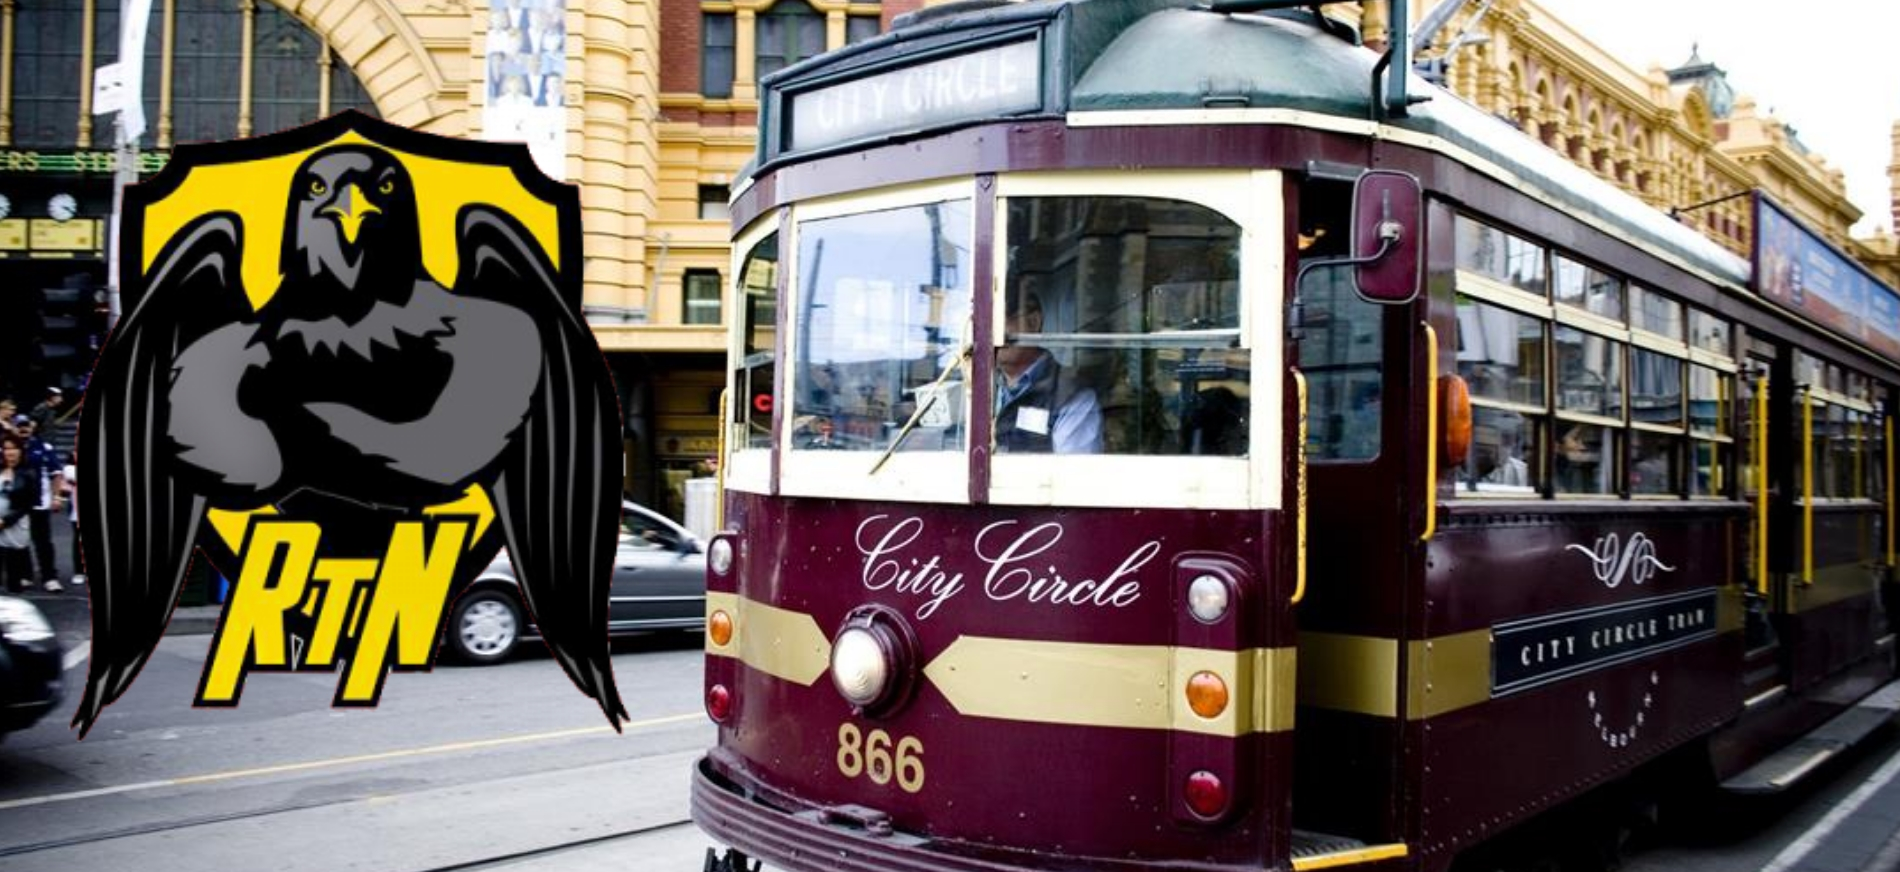
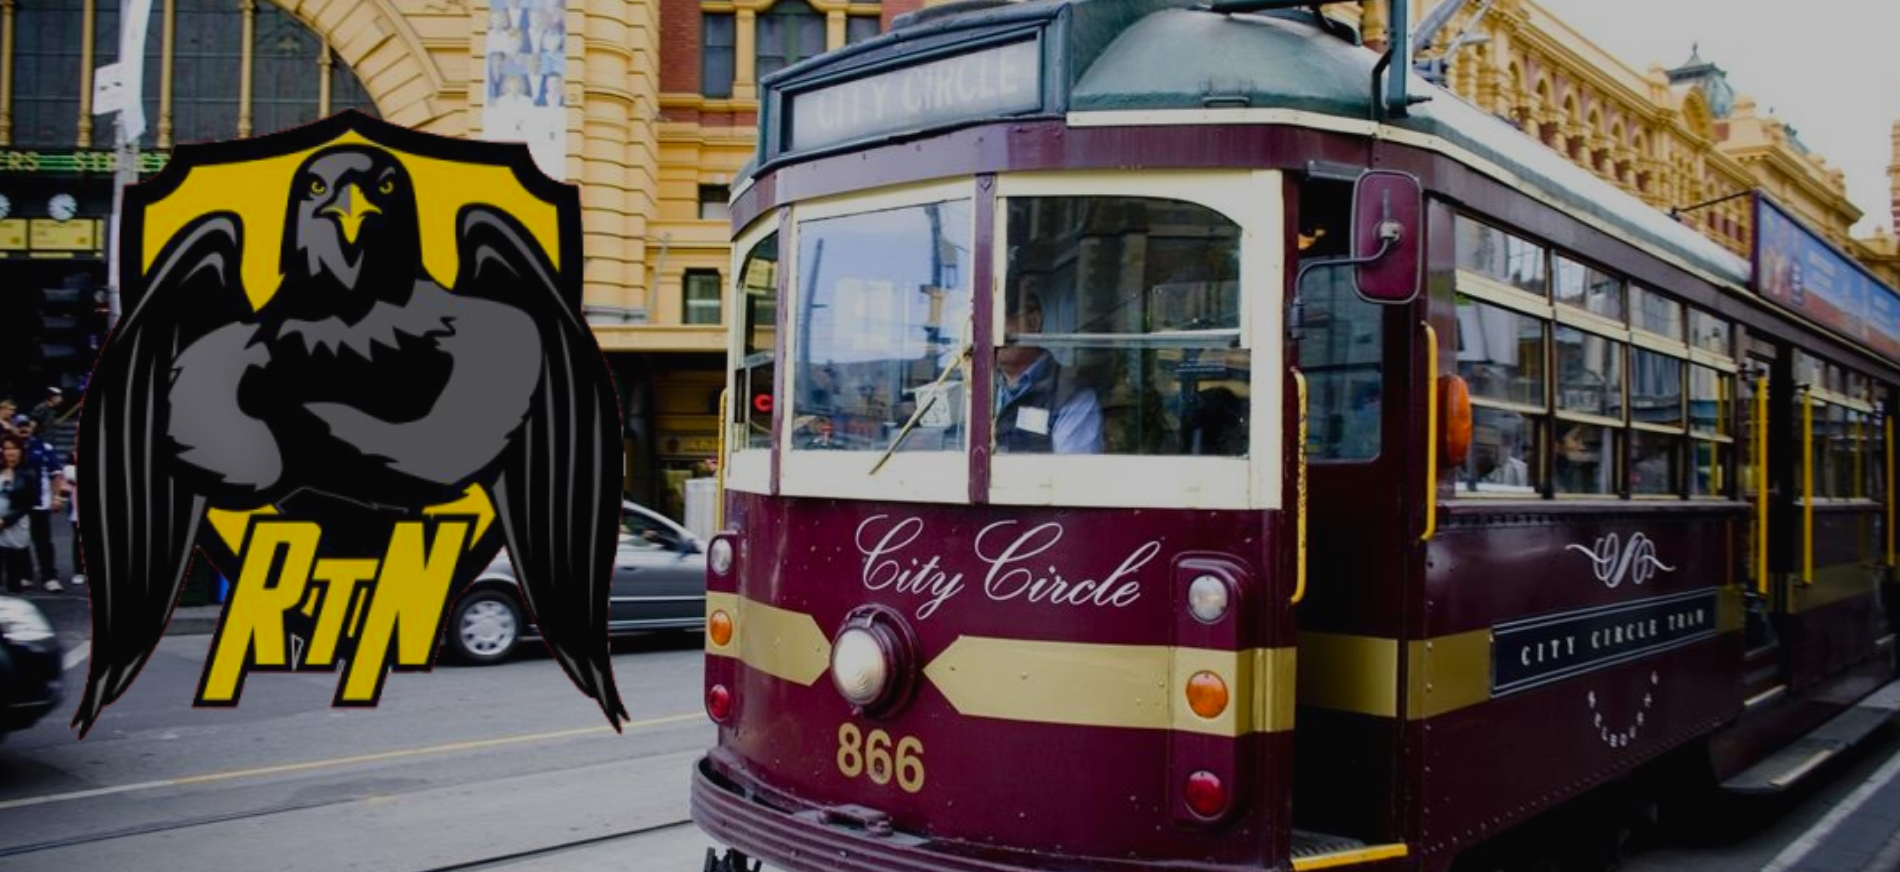
darkened images

diff --git a/index.html b/index.html
@@ -1,6 +1,6 @@
 ---
 layout: page
-description: "A Clean Blog Theme by Start Bootstrap"
+description: ""
 ---
 
 {% for post in paginator.posts %}
